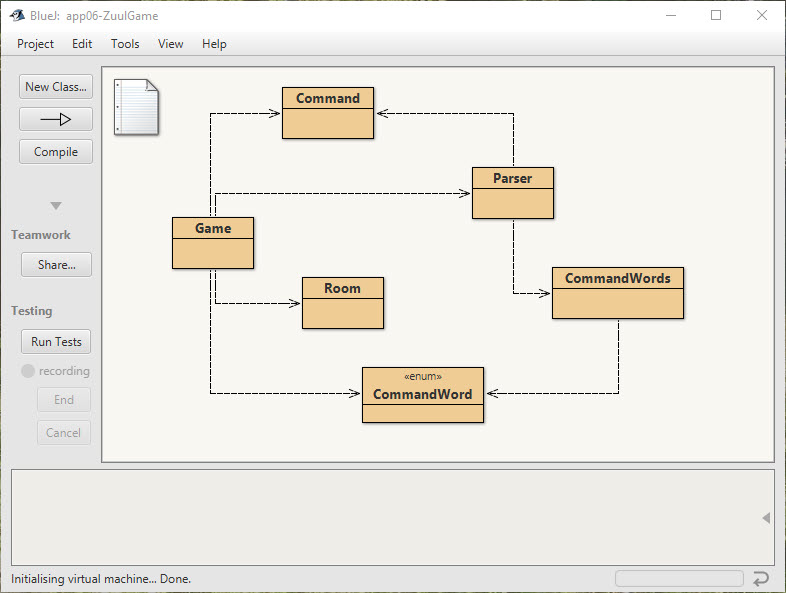
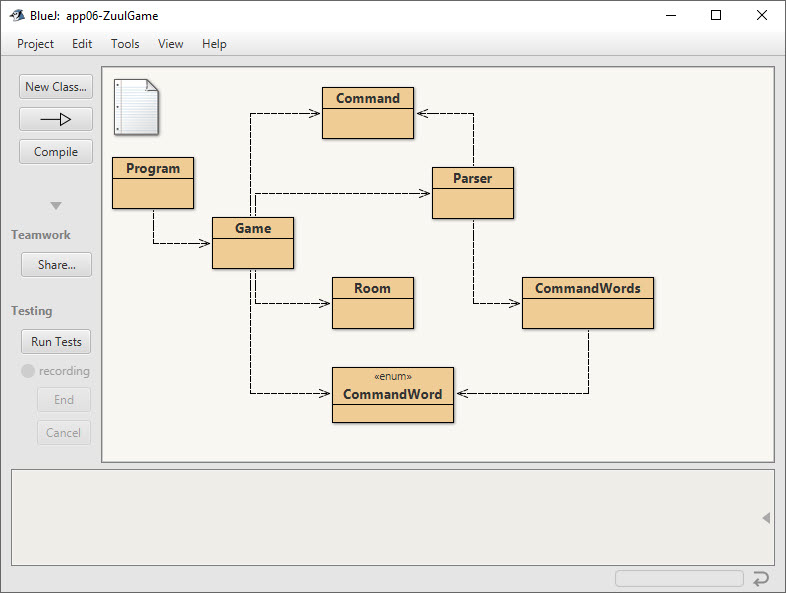
added program class

diff --git a/app06-ZuulGame/Program.java b/app06-ZuulGame/Program.java
@@ -1,0 +1,22 @@
+
+/**
+ * This class creates an instance of the Game
+ * class and then calls on its run method.
+ *
+ * @author Derek Peacock
+ * @version 0.1
+ */
+public class Program
+{
+    private static Game game;
+
+    /**
+     * This class creates and runs an instance of
+     * the Game class
+     */
+    public static void main()
+    {
+        game = new Game();
+        game.play();
+    }
+}
